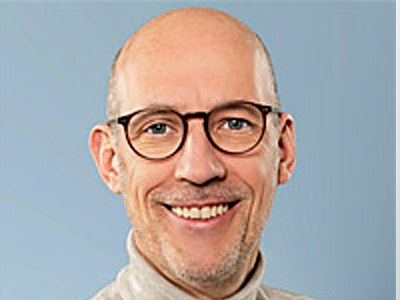
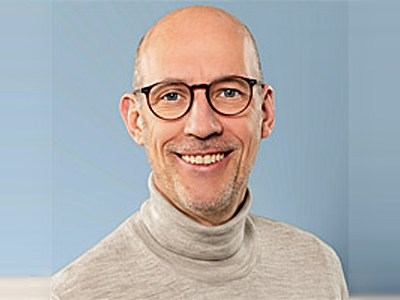
Add --fit: extend the backdrop sideways instead of cropping
A square studio headshot cannot fill a 4:3 frame without slicing the top of the
head off. --fit matches the height and extends the background outward by
replicating the edge columns, so any vertical gradient in the backdrop carries
through. The extension is then blurred and feathered into the seam — a plain
replicated column repeats whatever detail sat at that x, such as a shadow edge,
as a visible band.

Prof. Schulz's portrait now uses it, keeping his whole head.

diff --git a/tools/make_portrait.py b/tools/make_portrait.py
@@ -108,9 +108,24 @@ def gradient(w, h, face_cx=None, face_cy=None):
     return np.clip(out, 0, 255).astype(np.uint8)
 
 
-def plan(shape, face, out_w, out_h, face_frac, face_y):
+def plan(shape, face, out_w, out_h, face_frac, face_y, fit=False):
     """Work out scale and crop offset once, so every frame gets the same one."""
     H, W = shape[:2]
+
+    if fit:
+        # Show the whole frame: match the height and let the sides fall short.
+        # apply_plan fills the gap by extending the photo's own background, which
+        # keeps a head intact that a cover-crop would slice off.
+        scale = out_h / H
+        ox = int(round((W * scale - out_w) / 2))
+        oy = 0
+        nf = None
+        if face is not None:
+            x, y, fw, fh = face
+            nf = (int(x * scale) - ox, int(y * scale) - oy,
+                  int(fw * scale), int(fh * scale))
+        return scale, ox, oy, nf
+
     if face is None:
         # No face: cover-crop the centre, which is the safe default
         scale = max(out_w / W, out_h / H)
@@ -142,7 +157,7 @@ def plan(shape, face, out_w, out_h, face_frac, face_y):
     return scale, ox, oy, new_face
 
 
-def apply_plan(bgr, scale, ox, oy, out_w, out_h):
+def apply_plan(bgr, scale, ox, oy, out_w, out_h, extend=False):
     """Resize and crop one frame using a precomputed plan."""
     H, W = bgr.shape[:2]
     new_w, new_h = max(1, int(round(W * scale))), max(1, int(round(H * scale)))
@@ -159,6 +174,44 @@ def apply_plan(bgr, scale, ox, oy, out_w, out_h):
     dx0, dy0 = sx0 - ox, sy0 - oy
     canvas[dy0:dy0 + (sy1 - sy0), dx0:dx0 + (sx1 - sx0)] = resized[sy0:sy1, sx0:sx1]
     valid[dy0:dy0 + (sy1 - sy0), dx0:dx0 + (sx1 - sx0)] = 1
+
+    if extend:
+        # Stretch the outermost column outward. Replicating a column rather than
+        # filling with a flat colour carries any vertical gradient in the
+        # backdrop straight through, so the join is invisible.
+        x_lo, x_hi = dx0, dx0 + (sx1 - sx0) - 1
+        if x_lo > 0:
+            canvas[:, :x_lo] = canvas[:, x_lo:x_lo + 1]
+        if x_hi < out_w - 1:
+            canvas[:, x_hi + 1:] = canvas[:, x_hi:x_hi + 1]
+        y_lo, y_hi = dy0, dy0 + (sy1 - sy0) - 1
+        if y_lo > 0:
+            canvas[:y_lo, :] = canvas[y_lo:y_lo + 1, :]
+        if y_hi < out_h - 1:
+            canvas[y_hi + 1:, :] = canvas[y_hi:y_hi + 1, :]
+
+        # A replicated column repeats whatever detail sat at that x — a shadow
+        # edge, say — as a visible band. Blur the extension and ramp it in from
+        # the seam so the transition cannot be picked out.
+        if x_lo > 0 or x_hi < out_w - 1:
+            blurred = cv2.GaussianBlur(canvas, (0, 0), sigmaX=max(6, out_w / 26), sigmaY=2)
+            ramp = np.zeros((out_w,), np.float32)
+            feather = max(8, int(out_w * 0.05))
+            if x_lo > 0:
+                ramp[:x_lo] = 1.0
+                lo = max(0, x_lo - feather)
+                ramp[lo:x_lo] = np.linspace(0, 1, x_lo - lo)[::-1] * 0 + \
+                                np.linspace(1, 0, x_lo - lo)[::-1]
+            if x_hi < out_w - 1:
+                ramp[x_hi + 1:] = 1.0
+                hi = min(out_w, x_hi + 1 + feather)
+                ramp[x_hi + 1:hi] = np.linspace(0, 1, hi - (x_hi + 1))
+            a = ramp[None, :, None]
+            canvas = (canvas.astype(np.float32) * (1 - a) +
+                      blurred.astype(np.float32) * a).astype(np.uint8)
+
+        valid[:] = 1        # the extension is real background, not padding
+
     return canvas, valid
 
 
@@ -226,7 +279,7 @@ def segment(bgr, face, valid, iters=5):
 
 
 def process(src, dst, out_w, out_h, face_frac, face_y, keep_bg, quality,
-            debug_mask=False, animate=True, max_frames=120):
+            debug_mask=False, animate=True, max_frames=120, fit=False):
     try:
         frames, durations, animated = load_frames(src)
     except Exception as e:
@@ -248,14 +301,14 @@ def process(src, dst, out_w, out_h, face_frac, face_y, keep_bg, quality,
     # for every frame — per-frame segmentation would flicker badly.
     ref = frames[0]
     face = detect_face(ref)
-    scale, ox, oy, new_face = plan(ref.shape, face, out_w, out_h, face_frac, face_y)
+    scale, ox, oy, new_face = plan(ref.shape, face, out_w, out_h, face_frac, face_y, fit)
     if scale > 1.6:
         sh, sw = ref.shape[:2]
         print(f"    source is {sw}x{sh}; filling {out_w}x{out_h} needs {scale:.1f}x "
               f"upscaling and will look soft. Use a larger original, or --width "
               f"{int(out_w / scale * 1.6 // 10 * 10)}.", file=sys.stderr)
 
-    ref_placed, valid = apply_plan(ref, scale, ox, oy, out_w, out_h)
+    ref_placed, valid = apply_plan(ref, scale, ox, oy, out_w, out_h, fit)
     cx = None if new_face is None else new_face[0] + new_face[2] / 2
     cy = None if new_face is None else new_face[1] + new_face[3] / 2
     bg = gradient(out_w, out_h, cx, cy)
@@ -270,7 +323,7 @@ def process(src, dst, out_w, out_h, face_frac, face_y, keep_bg, quality,
 
     out_frames = []
     for fr in frames:
-        placed, v = apply_plan(fr, scale, ox, oy, out_w, out_h)
+        placed, v = apply_plan(fr, scale, ox, oy, out_w, out_h, fit)
         if alpha is None:
             comp = placed.copy()
             comp[v == 0] = bg[v == 0]
@@ -322,6 +375,9 @@ def main():
                     help="face height as a fraction of image height (default 0.30)")
     ap.add_argument("--face-y", type=float, default=0.40,
                     help="vertical position of the face centre, 0-1 (default 0.40)")
+    ap.add_argument("--fit", action="store_true",
+                    help="show the whole photo and extend its background sideways to "
+                         "reach the ratio, instead of cropping to fill")
     ap.add_argument("--keep-bg", action="store_true",
                     help="crop and position only; do not replace the background")
     ap.add_argument("--quality", type=int, default=88, help="JPEG quality (default 88)")
@@ -353,7 +409,7 @@ def main():
             dst = os.path.join(args.out_dir, stem + out_ext)
             ok += process(f, dst, out_w, out_h, args.face_frac, args.face_y,
                           args.keep_bg, args.quality, args.debug_mask,
-                          not args.no_animate, args.max_frames)
+                          not args.no_animate, args.max_frames, args.fit)
         print(f"{ok}/{len(files)} converted")
         return 0 if ok else 1
 
@@ -362,7 +418,7 @@ def main():
     return 0 if process(args.input, args.out, out_w, out_h, args.face_frac,
                         args.face_y, args.keep_bg, args.quality,
                         args.debug_mask, not args.no_animate,
-                        args.max_frames) else 1
+                        args.max_frames, args.fit) else 1
 
 
 if __name__ == "__main__":

diff --git a/_members/yuli-wu.md b/_members/yuli-wu.md
@@ -4,10 +4,10 @@ short_name: "Yuli Wu"
 order: 2
 type: lead
 display_types: [lead, member]
-role: "Group Leader — Physical AI Lab"
-affiliation: "Chair of Imaging and Computer Vision, RWTH Aachen University"
-bio: "Generalist robots for real-world long-horizon tasks."
-email: "robot@lfb.rwth-aachen.de"
+role: "Group Leader"
+affiliation: "Physical AI Lab, RWTH Aachen University"
+bio: "We develop generalist robots for real-world long-horizon tasks."
+email: "yuli.wu@lfb.rwth-aachen.de"
 author_id: "yuli-wu"
 cv_pdf: "/assets/cv/yuli-wu.pdf"
 cv:
@@ -20,28 +20,27 @@ cv:
   - period: "Feb 2026 – May 2026"
     title: "Visiting Scholar"
     org: "School of Biomedical Engineering, University of Sydney"
+  - period: "Dec 2021"
+    title: "Dr.-Ing."
+    org: "RWTH Aachen University"
   - period: "Jul 2021 – Dec 2025"
     title: "Research Scientist"
     org: "Chair of Imaging and Computer Vision, RWTH Aachen University"
   - period: "2018 – 2021"
-    title: "M.Sc. Electrical Engineering"
+    title: "M.Sc."
     org: "RWTH Aachen University"
-    note: "Information Technology and Computer Engineering"
+    note: "Electrical Engineering, Information Technology and Computer Engineering"
   - period: "2015 – 2018"
-    title: "B.Sc. Electrical Engineering"
+    title: "B.Sc."
     org: "RWTH Aachen University"
-    note: "Information Technology and Computer Engineering"
+    note: " Electrical Engineering, Information Technology and Computer Engineering"
 # Profile links — all optional. Delete any line you do not want.
 # Known keys fill in the label automatically; add `label:` for anything else.
 links:
   - key: scholar
-    url: "https://scholar.google.com/citations?user=[ID]"
-  - key: orcid
-    url: "https://orcid.org/[ID]"
+    url: "https://scholar.google.com/citations?user=qlun0AgAAAAJ&hl=en"
   - key: linkedin
-    url: "https://www.linkedin.com/in/[handle]"
-  - key: github
-    url: "https://github.com/[handle]"
+    url: "https://www.linkedin.com/in/wuyuli"
 image: "/assets/images/team/placeholder-person.svg"
 image_alt: ""
 ---

diff --git a/tools/README.md b/tools/README.md
@@ -33,6 +33,7 @@ team cards and member portraits expect, so nothing gets re-cropped by CSS.
 | `--width` | `1200` | Output width in px; height follows the ratio. |
 | `--face-frac` | `0.30` | Head height as a fraction of image height. Raise for a tighter crop. |
 | `--face-y` | `0.40` | Where the face centre sits vertically, 0–1. |
+| `--fit` | off | Show the whole photo and extend its background sideways to reach the ratio, instead of cropping to fill. |
 | `--keep-bg` | off | Crop and position only; leave the background alone. |
 | `--debug-mask` | off | Also writes the cut-out matte next to the output. |
 | `--quality` | `88` | JPEG quality. |
@@ -73,6 +74,16 @@ In batch mode, `.gif` sources stay `.gif` so animation survives; everything else
 
 Animation also works nicely for the hover image: point `image:` at a still and
 `image_alt:` at the GIF, and the card animates only on hover.
+
+### When the source is the wrong shape
+
+A square or portrait-orientation photo cannot fill a 4:3 frame without losing the top of
+the head. `--fit` avoids that: it matches the height, centres the photo, and extends the
+backdrop outward by replicating the edge columns — then blurs and feathers the extension
+so the seam cannot be picked out. Replicating a column rather than filling with a flat
+colour carries any vertical gradient in the backdrop straight through.
+
+Useful for studio headshots, which are usually framed square or tall.
 
 ### Honest limits
 

diff --git a/TODO.md b/TODO.md
@@ -55,10 +55,11 @@ it before you publicise the site:
 
 **Two portrait sources are inadequate:**
 
-- **Prof. Schulz's photo is a 200x200 web thumbnail.** It is in place, but keeps its
-  original blue backdrop: keying that out of so small a JPEG leaves visible artefacts
-  around the head. Ask the institute or the photographer for the full-resolution
-  original, then re-run the tool without `--keep-bg` to get the gray treatment.
+- **Prof. Schulz's photo is a 200x200 web thumbnail.** It is in place via `--fit`, which
+  shows the whole photo and extends the backdrop sideways rather than cropping his head.
+  It keeps the original blue: keying that out of so small a JPEG leaves visible artefacts.
+  Ask the institute or the photographer for the full-resolution original, then re-run
+  without `--fit --keep-bg` for the standard gray treatment.
 - **There is no portrait of Yuli Wu.** The file in `~/Downloads/DrYuliWu.jpg` is a
   screenshot of the institute contact page, not a photograph.
 
